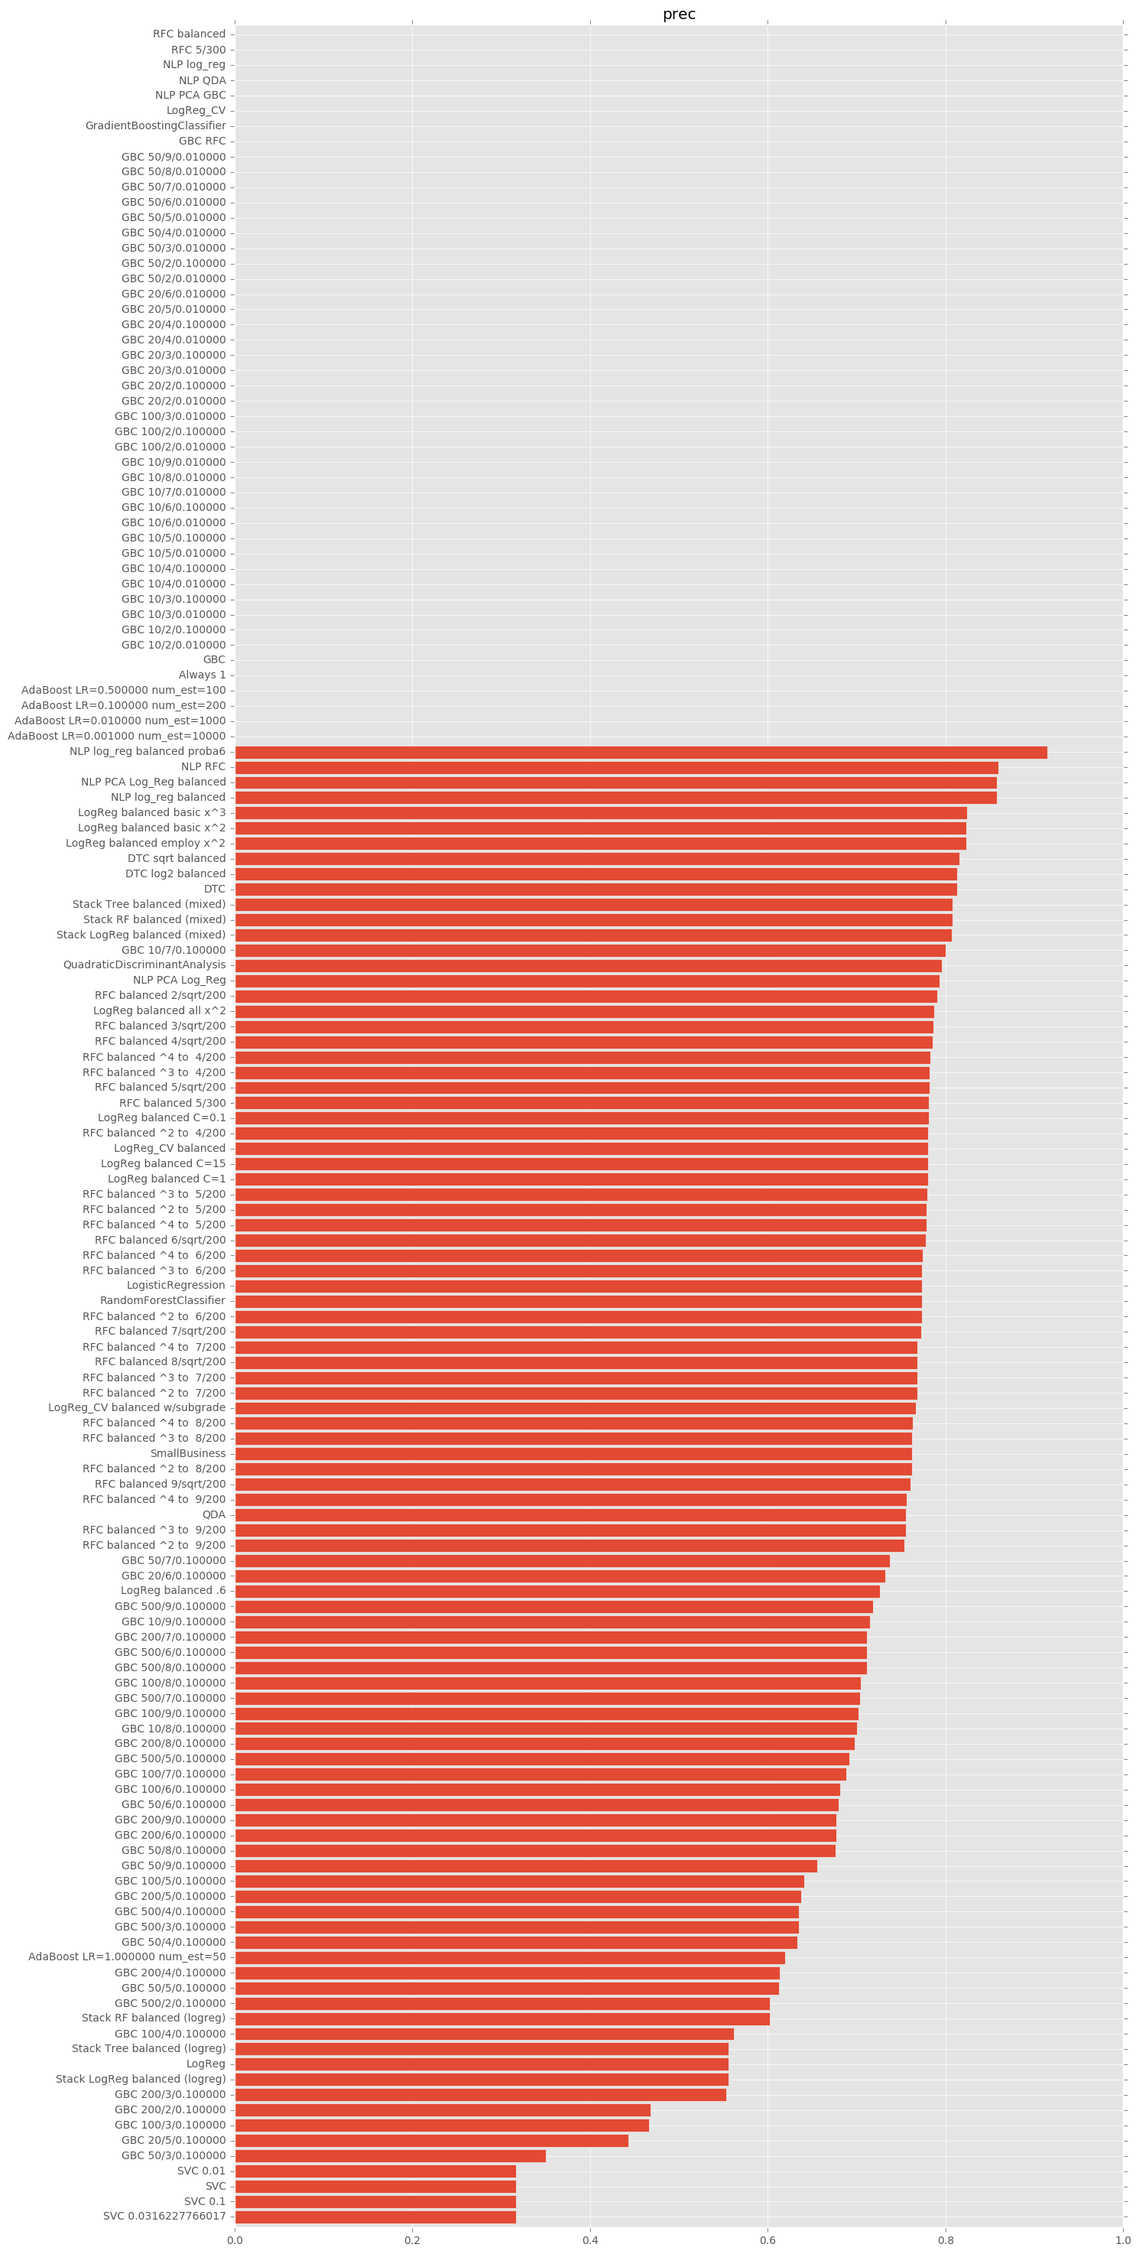
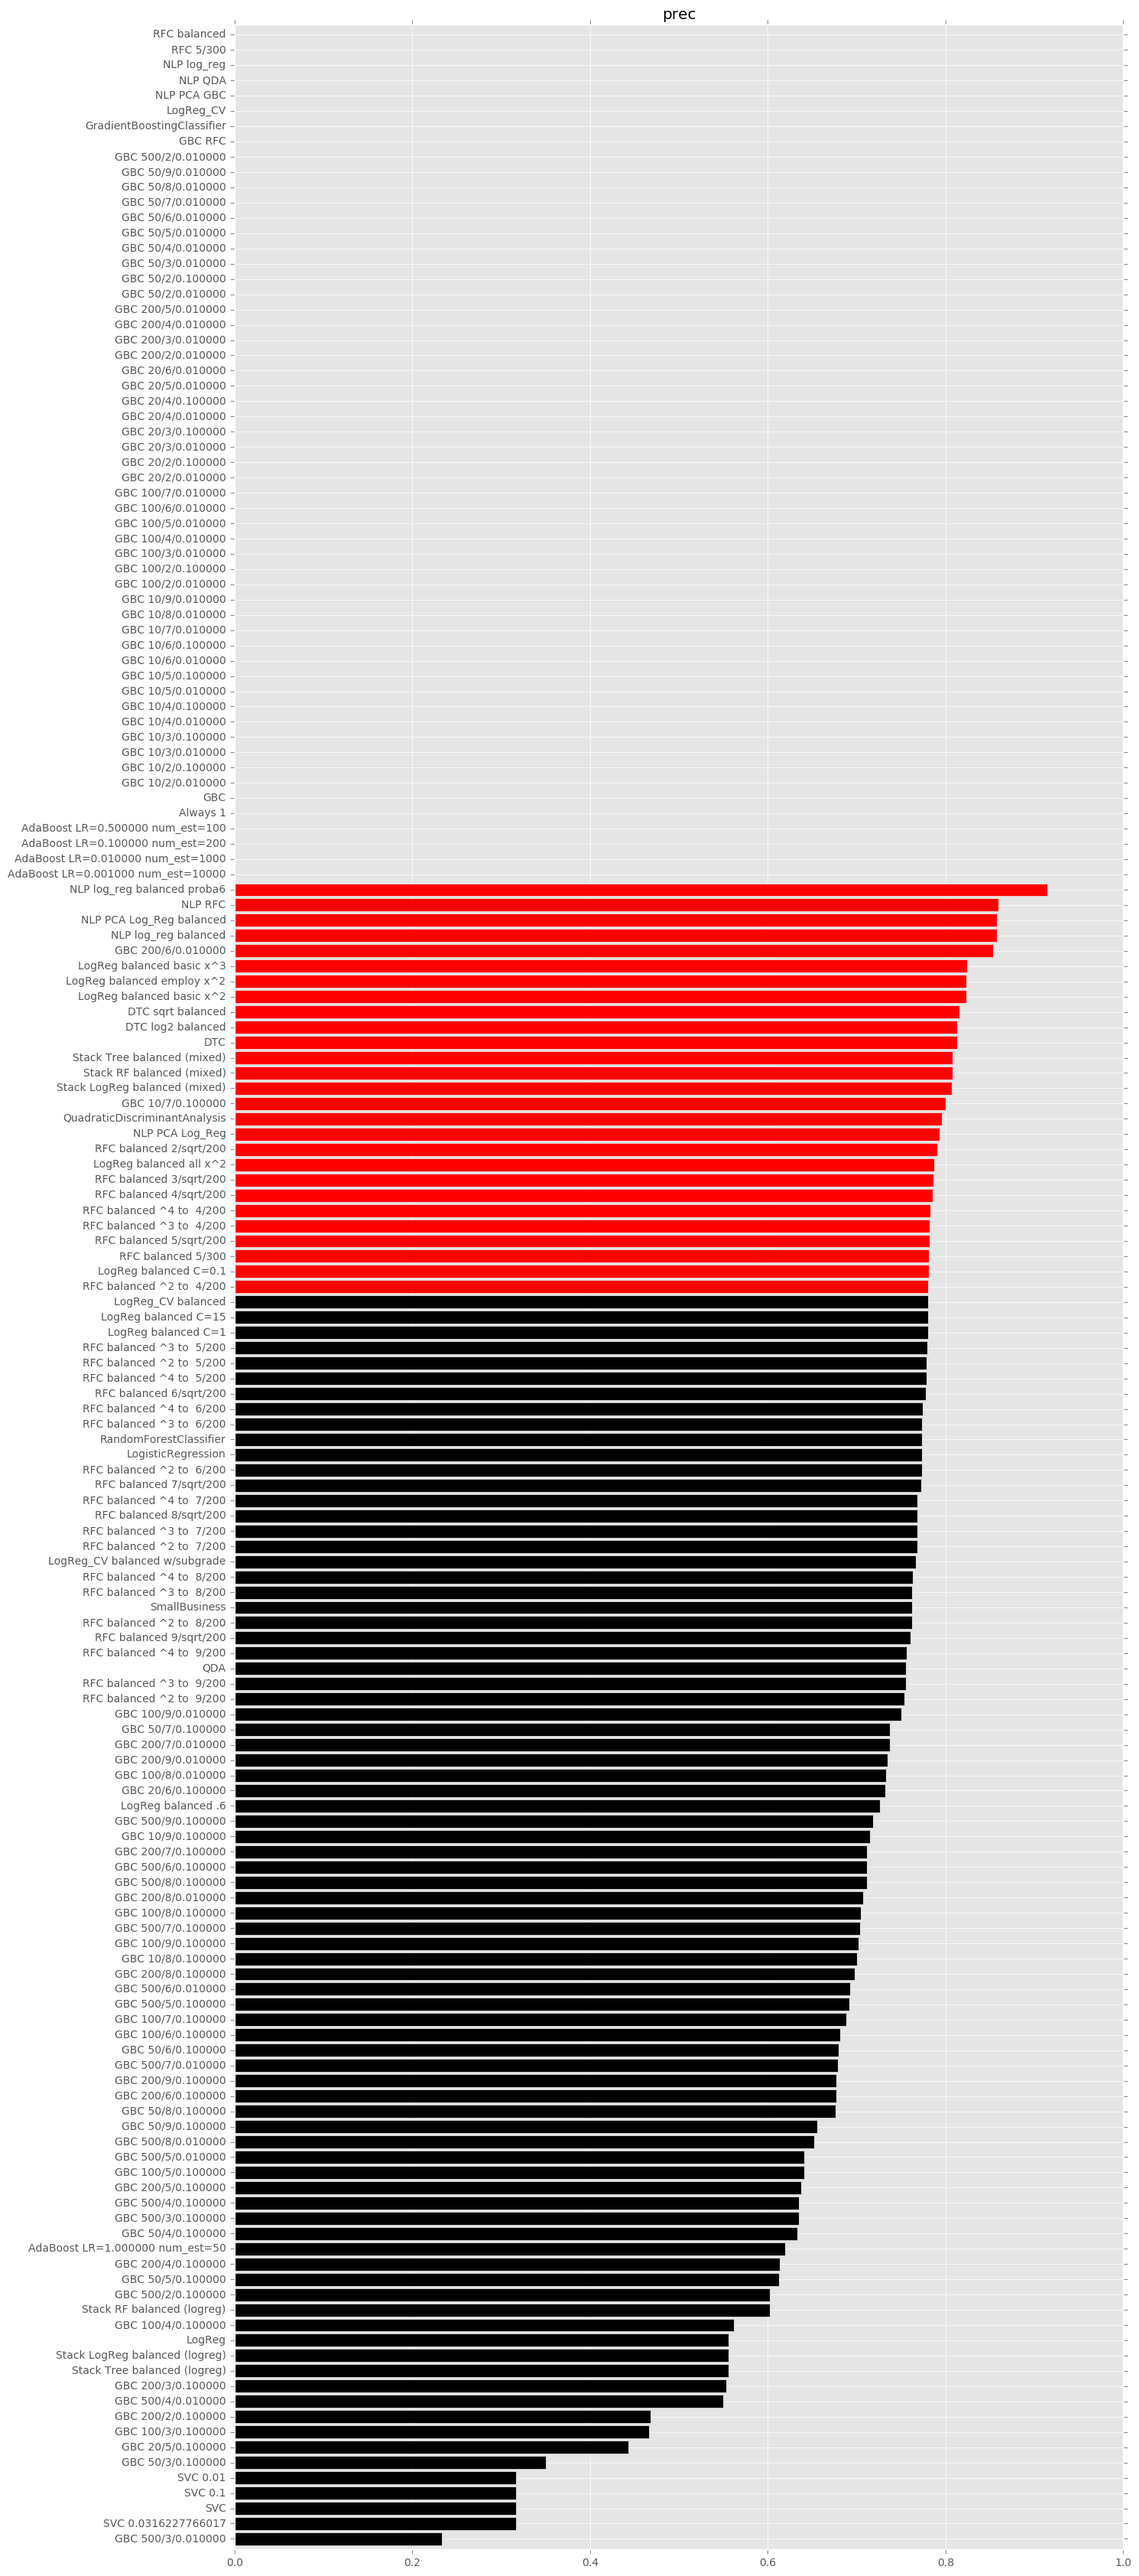
Yet more updates

diff --git a/docs/05-Analysis.html b/docs/05-Analysis.html
@@ -74,11 +74,17 @@
 <tr><th>GBC 100/2/0.100000</th><td class='better'>0.659</td><td>0.918</td><td>nan</td><td>0.848</td><td>0.000</td><td>0.471</td><td>0.848</td></tr>
 <tr><th>GBC 100/3/0.010000</th><td>0.638</td><td>0.918</td><td>nan</td><td>0.848</td><td>0.000</td><td>nan</td><td>0.848</td></tr>
 <tr><th>GBC 100/3/0.100000</th><td class='better'>0.662</td><td>0.918</td><td>0.467</td><td>0.848</td><td>0.002</td><td>0.588</td><td>0.848</td></tr>
+<tr><th>GBC 100/4/0.010000</th><td>0.641</td><td>0.918</td><td>nan</td><td>0.848</td><td>0.000</td><td>nan</td><td>0.848</td></tr>
 <tr><th>GBC 100/4/0.100000</th><td class='better'>0.661</td><td>0.917</td><td>0.562</td><td>0.847</td><td>0.004</td><td>0.550</td><td>0.848</td></tr>
+<tr><th>GBC 100/5/0.010000</th><td>0.645</td><td>0.918</td><td>nan</td><td>0.848</td><td>0.000</td><td>nan</td><td>0.848</td></tr>
 <tr><th>GBC 100/5/0.100000</th><td class='better'>0.659</td><td>0.916</td><td>0.641</td><td>0.846</td><td>0.009</td><td>0.618</td><td>0.847</td></tr>
+<tr><th>GBC 100/6/0.010000</th><td>0.645</td><td>0.918</td><td>nan</td><td>0.848</td><td>0.000</td><td>0.333</td><td>0.848</td></tr>
 <tr><th>GBC 100/6/0.100000</th><td>0.654</td><td>0.915</td><td>0.682</td><td>0.845</td><td>0.012</td><td>0.641</td><td>0.846</td></tr>
+<tr><th>GBC 100/7/0.010000</th><td>0.645</td><td>0.918</td><td>nan</td><td>0.848</td><td>0.000</td><td>0.571</td><td>0.848</td></tr>
 <tr><th>GBC 100/7/0.100000</th><td>0.650</td><td>0.915</td><td>0.688</td><td>0.843</td><td>0.016</td><td>0.661</td><td>0.845</td></tr>
+<tr><th>GBC 100/8/0.010000</th><td>0.642</td><td>0.918</td><td>0.733</td><td>0.848</td><td>0.000</td><td>0.609</td><td>0.848</td></tr>
 <tr><th>GBC 100/8/0.100000</th><td>0.645</td><td>0.915</td><td>0.704</td><td>0.843</td><td>0.020</td><td>0.698</td><td>0.843</td></tr>
+<tr><th>GBC 100/9/0.010000</th><td>0.639</td><td>0.918</td><td>0.750</td><td>0.848</td><td>0.001</td><td>0.550</td><td>0.848</td></tr>
 <tr><th>GBC 100/9/0.100000</th><td>0.641</td><td>0.913</td><td>0.703</td><td>0.841</td><td>0.023</td><td>0.692</td><td>0.843</td></tr>
 <tr><th>GBC 20/2/0.010000</th><td>0.596</td><td>0.918</td><td>nan</td><td>0.848</td><td>0.000</td><td>nan</td><td>0.848</td></tr>
 <tr><th>GBC 20/2/0.100000</th><td>0.642</td><td>0.918</td><td>nan</td><td>0.848</td><td>0.000</td><td>nan</td><td>0.848</td></tr>
@@ -90,13 +96,21 @@
 <tr><th>GBC 20/5/0.100000</th><td>0.650</td><td>0.918</td><td>0.443</td><td>0.848</td><td>0.000</td><td>0.471</td><td>0.848</td></tr>
 <tr><th>GBC 20/6/0.010000</th><td>0.623</td><td>0.918</td><td>nan</td><td>0.848</td><td>0.000</td><td>nan</td><td>0.848</td></tr>
 <tr><th>GBC 20/6/0.100000</th><td>0.651</td><td>0.917</td><td>0.733</td><td>0.847</td><td>0.001</td><td>0.544</td><td>0.848</td></tr>
+<tr><th>GBC 200/2/0.010000</th><td>0.642</td><td>0.918</td><td>nan</td><td>0.848</td><td>0.000</td><td>nan</td><td>0.848</td></tr>
 <tr><th>GBC 200/2/0.100000</th><td class='better'>0.663</td><td>0.918</td><td>0.468</td><td>0.848</td><td>0.001</td><td>0.562</td><td>0.848</td></tr>
+<tr><th>GBC 200/3/0.010000</th><td>0.648</td><td>0.918</td><td>nan</td><td>0.848</td><td>0.000</td><td>nan</td><td>0.848</td></tr>
 <tr><th>GBC 200/3/0.100000</th><td class='better'>0.663</td><td>0.917</td><td>0.554</td><td>0.847</td><td>0.004</td><td>0.592</td><td>0.848</td></tr>
+<tr><th>GBC 200/4/0.010000</th><td>0.651</td><td>0.918</td><td>nan</td><td>0.848</td><td>0.000</td><td>nan</td><td>0.848</td></tr>
 <tr><th>GBC 200/4/0.100000</th><td class='better'>0.660</td><td>0.916</td><td>0.613</td><td>0.846</td><td>0.009</td><td>0.624</td><td>0.847</td></tr>
+<tr><th>GBC 200/5/0.010000</th><td>0.652</td><td>0.918</td><td>nan</td><td>0.848</td><td>0.000</td><td>0.500</td><td>0.848</td></tr>
 <tr><th>GBC 200/5/0.100000</th><td>0.656</td><td>0.916</td><td>0.638</td><td>0.845</td><td>0.015</td><td>0.635</td><td>0.846</td></tr>
+<tr><th>GBC 200/6/0.010000</th><td>0.653</td><td>0.917</td><td>0.853</td><td>0.847</td><td>0.000</td><td>0.500</td><td>0.848</td></tr>
 <tr><th>GBC 200/6/0.100000</th><td>0.649</td><td>0.914</td><td>0.677</td><td>0.843</td><td>0.020</td><td>0.657</td><td>0.844</td></tr>
+<tr><th>GBC 200/7/0.010000</th><td>0.651</td><td>0.917</td><td>0.737</td><td>0.847</td><td>0.001</td><td>0.652</td><td>0.848</td></tr>
 <tr><th>GBC 200/7/0.100000</th><td>0.646</td><td>0.913</td><td>0.712</td><td>0.841</td><td>0.023</td><td>0.680</td><td>0.843</td></tr>
+<tr><th>GBC 200/8/0.010000</th><td>0.650</td><td>0.917</td><td>0.708</td><td>0.847</td><td>0.002</td><td>0.615</td><td>0.848</td></tr>
 <tr><th>GBC 200/8/0.100000</th><td>0.639</td><td>0.913</td><td>0.698</td><td>0.841</td><td>0.027</td><td>0.684</td><td>0.842</td></tr>
+<tr><th>GBC 200/9/0.010000</th><td>0.646</td><td>0.917</td><td>0.735</td><td>0.847</td><td>0.005</td><td>0.672</td><td>0.847</td></tr>
 <tr><th>GBC 200/9/0.100000</th><td>0.633</td><td>0.914</td><td>0.677</td><td>0.842</td><td>0.027</td><td>0.685</td><td>0.842</td></tr>
 <tr><th>GBC 50/2/0.010000</th><td>0.615</td><td>0.918</td><td>nan</td><td>0.848</td><td>0.000</td><td>nan</td><td>0.848</td></tr>
 <tr><th>GBC 50/2/0.100000</th><td>0.654</td><td>0.918</td><td>nan</td><td>0.848</td><td>0.000</td><td>nan</td><td>0.848</td></tr>
@@ -114,12 +128,19 @@
 <tr><th>GBC 50/8/0.100000</th><td>0.648</td><td>0.916</td><td>0.676</td><td>0.845</td><td>0.013</td><td>0.642</td><td>0.846</td></tr>
 <tr><th>GBC 50/9/0.010000</th><td>0.633</td><td>0.918</td><td>nan</td><td>0.848</td><td>0.000</td><td>nan</td><td>0.848</td></tr>
 <tr><th>GBC 50/9/0.100000</th><td>0.642</td><td>0.915</td><td>0.655</td><td>0.844</td><td>0.017</td><td>0.679</td><td>0.844</td></tr>
+<tr><th>GBC 500/2/0.010000</th><td>0.654</td><td>0.918</td><td>nan</td><td>0.848</td><td>0.000</td><td>nan</td><td>0.848</td></tr>
 <tr><th>GBC 500/2/0.100000</th><td class='better'>0.664</td><td>0.917</td><td>0.603</td><td>0.847</td><td>0.005</td><td>0.633</td><td>0.848</td></tr>
+<tr><th>GBC 500/3/0.010000</th><td class='better'>0.658</td><td>0.918</td><td>0.233</td><td>0.848</td><td>0.000</td><td>0.308</td><td>0.848</td></tr>
 <tr><th>GBC 500/3/0.100000</th><td class='better'>0.660</td><td>0.916</td><td>0.635</td><td>0.845</td><td>0.011</td><td>0.632</td><td>0.846</td></tr>
+<tr><th>GBC 500/4/0.010000</th><td class='better'>0.660</td><td>0.918</td><td>0.550</td><td>0.848</td><td>0.001</td><td>0.508</td><td>0.848</td></tr>
 <tr><th>GBC 500/4/0.100000</th><td>0.653</td><td>0.914</td><td>0.635</td><td>0.843</td><td>0.020</td><td>0.672</td><td>0.844</td></tr>
+<tr><th>GBC 500/5/0.010000</th><td class='better'>0.661</td><td>0.917</td><td>0.641</td><td>0.847</td><td>0.002</td><td>0.596</td><td>0.848</td></tr>
 <tr><th>GBC 500/5/0.100000</th><td>0.647</td><td>0.913</td><td>0.691</td><td>0.840</td><td>0.026</td><td>0.668</td><td>0.843</td></tr>
+<tr><th>GBC 500/6/0.010000</th><td class='better'>0.659</td><td>0.917</td><td>0.693</td><td>0.847</td><td>0.004</td><td>0.598</td><td>0.848</td></tr>
 <tr><th>GBC 500/6/0.100000</th><td>0.638</td><td>0.911</td><td>0.712</td><td>0.838</td><td>0.031</td><td>0.679</td><td>0.841</td></tr>
+<tr><th>GBC 500/7/0.010000</th><td>0.657</td><td>0.916</td><td>0.679</td><td>0.846</td><td>0.006</td><td>0.608</td><td>0.848</td></tr>
 <tr><th>GBC 500/7/0.100000</th><td>0.630</td><td>0.911</td><td>0.704</td><td>0.838</td><td>0.035</td><td>0.705</td><td>0.840</td></tr>
+<tr><th>GBC 500/8/0.010000</th><td>0.654</td><td>0.916</td><td>0.653</td><td>0.846</td><td>0.008</td><td>0.633</td><td>0.847</td></tr>
 <tr><th>GBC 500/8/0.100000</th><td>0.625</td><td>0.912</td><td>0.711</td><td>0.839</td><td>0.032</td><td>0.692</td><td>0.841</td></tr>
 <tr><th>GBC 500/9/0.100000</th><td>0.615</td><td>0.913</td><td>0.719</td><td>0.840</td><td>0.029</td><td>0.701</td><td>0.841</td></tr>
 <tr><th>GBC RFC</th><td>0.496</td><td>0.925</td><td>nan</td><td>0.860</td><td>0.000</td><td>nan</td><td class='better'>0.863</td></tr>

diff --git a/docs/model_performance.html b/docs/model_performance.html
@@ -28,11 +28,17 @@
 <tr><th>GBC 100/2/0.100000</th><td class='better'>0.659</td><td>0.918</td><td>nan</td><td>0.848</td><td>0.000</td><td>0.471</td><td>0.848</td></tr>
 <tr><th>GBC 100/3/0.010000</th><td>0.638</td><td>0.918</td><td>nan</td><td>0.848</td><td>0.000</td><td>nan</td><td>0.848</td></tr>
 <tr><th>GBC 100/3/0.100000</th><td class='better'>0.662</td><td>0.918</td><td>0.467</td><td>0.848</td><td>0.002</td><td>0.588</td><td>0.848</td></tr>
+<tr><th>GBC 100/4/0.010000</th><td>0.641</td><td>0.918</td><td>nan</td><td>0.848</td><td>0.000</td><td>nan</td><td>0.848</td></tr>
 <tr><th>GBC 100/4/0.100000</th><td class='better'>0.661</td><td>0.917</td><td>0.562</td><td>0.847</td><td>0.004</td><td>0.550</td><td>0.848</td></tr>
+<tr><th>GBC 100/5/0.010000</th><td>0.645</td><td>0.918</td><td>nan</td><td>0.848</td><td>0.000</td><td>nan</td><td>0.848</td></tr>
 <tr><th>GBC 100/5/0.100000</th><td class='better'>0.659</td><td>0.916</td><td>0.641</td><td>0.846</td><td>0.009</td><td>0.618</td><td>0.847</td></tr>
+<tr><th>GBC 100/6/0.010000</th><td>0.645</td><td>0.918</td><td>nan</td><td>0.848</td><td>0.000</td><td>0.333</td><td>0.848</td></tr>
 <tr><th>GBC 100/6/0.100000</th><td>0.654</td><td>0.915</td><td>0.682</td><td>0.845</td><td>0.012</td><td>0.641</td><td>0.846</td></tr>
+<tr><th>GBC 100/7/0.010000</th><td>0.645</td><td>0.918</td><td>nan</td><td>0.848</td><td>0.000</td><td>0.571</td><td>0.848</td></tr>
 <tr><th>GBC 100/7/0.100000</th><td>0.650</td><td>0.915</td><td>0.688</td><td>0.843</td><td>0.016</td><td>0.661</td><td>0.845</td></tr>
+<tr><th>GBC 100/8/0.010000</th><td>0.642</td><td>0.918</td><td>0.733</td><td>0.848</td><td>0.000</td><td>0.609</td><td>0.848</td></tr>
 <tr><th>GBC 100/8/0.100000</th><td>0.645</td><td>0.915</td><td>0.704</td><td>0.843</td><td>0.020</td><td>0.698</td><td>0.843</td></tr>
+<tr><th>GBC 100/9/0.010000</th><td>0.639</td><td>0.918</td><td>0.750</td><td>0.848</td><td>0.001</td><td>0.550</td><td>0.848</td></tr>
 <tr><th>GBC 100/9/0.100000</th><td>0.641</td><td>0.913</td><td>0.703</td><td>0.841</td><td>0.023</td><td>0.692</td><td>0.843</td></tr>
 <tr><th>GBC 20/2/0.010000</th><td>0.596</td><td>0.918</td><td>nan</td><td>0.848</td><td>0.000</td><td>nan</td><td>0.848</td></tr>
 <tr><th>GBC 20/2/0.100000</th><td>0.642</td><td>0.918</td><td>nan</td><td>0.848</td><td>0.000</td><td>nan</td><td>0.848</td></tr>
@@ -44,13 +50,21 @@
 <tr><th>GBC 20/5/0.100000</th><td>0.650</td><td>0.918</td><td>0.443</td><td>0.848</td><td>0.000</td><td>0.471</td><td>0.848</td></tr>
 <tr><th>GBC 20/6/0.010000</th><td>0.623</td><td>0.918</td><td>nan</td><td>0.848</td><td>0.000</td><td>nan</td><td>0.848</td></tr>
 <tr><th>GBC 20/6/0.100000</th><td>0.651</td><td>0.917</td><td>0.733</td><td>0.847</td><td>0.001</td><td>0.544</td><td>0.848</td></tr>
+<tr><th>GBC 200/2/0.010000</th><td>0.642</td><td>0.918</td><td>nan</td><td>0.848</td><td>0.000</td><td>nan</td><td>0.848</td></tr>
 <tr><th>GBC 200/2/0.100000</th><td class='better'>0.663</td><td>0.918</td><td>0.468</td><td>0.848</td><td>0.001</td><td>0.562</td><td>0.848</td></tr>
+<tr><th>GBC 200/3/0.010000</th><td>0.648</td><td>0.918</td><td>nan</td><td>0.848</td><td>0.000</td><td>nan</td><td>0.848</td></tr>
 <tr><th>GBC 200/3/0.100000</th><td class='better'>0.663</td><td>0.917</td><td>0.554</td><td>0.847</td><td>0.004</td><td>0.592</td><td>0.848</td></tr>
+<tr><th>GBC 200/4/0.010000</th><td>0.651</td><td>0.918</td><td>nan</td><td>0.848</td><td>0.000</td><td>nan</td><td>0.848</td></tr>
 <tr><th>GBC 200/4/0.100000</th><td class='better'>0.660</td><td>0.916</td><td>0.613</td><td>0.846</td><td>0.009</td><td>0.624</td><td>0.847</td></tr>
+<tr><th>GBC 200/5/0.010000</th><td>0.652</td><td>0.918</td><td>nan</td><td>0.848</td><td>0.000</td><td>0.500</td><td>0.848</td></tr>
 <tr><th>GBC 200/5/0.100000</th><td>0.656</td><td>0.916</td><td>0.638</td><td>0.845</td><td>0.015</td><td>0.635</td><td>0.846</td></tr>
+<tr><th>GBC 200/6/0.010000</th><td>0.653</td><td>0.917</td><td>0.853</td><td>0.847</td><td>0.000</td><td>0.500</td><td>0.848</td></tr>
 <tr><th>GBC 200/6/0.100000</th><td>0.649</td><td>0.914</td><td>0.677</td><td>0.843</td><td>0.020</td><td>0.657</td><td>0.844</td></tr>
+<tr><th>GBC 200/7/0.010000</th><td>0.651</td><td>0.917</td><td>0.737</td><td>0.847</td><td>0.001</td><td>0.652</td><td>0.848</td></tr>
 <tr><th>GBC 200/7/0.100000</th><td>0.646</td><td>0.913</td><td>0.712</td><td>0.841</td><td>0.023</td><td>0.680</td><td>0.843</td></tr>
+<tr><th>GBC 200/8/0.010000</th><td>0.650</td><td>0.917</td><td>0.708</td><td>0.847</td><td>0.002</td><td>0.615</td><td>0.848</td></tr>
 <tr><th>GBC 200/8/0.100000</th><td>0.639</td><td>0.913</td><td>0.698</td><td>0.841</td><td>0.027</td><td>0.684</td><td>0.842</td></tr>
+<tr><th>GBC 200/9/0.010000</th><td>0.646</td><td>0.917</td><td>0.735</td><td>0.847</td><td>0.005</td><td>0.672</td><td>0.847</td></tr>
 <tr><th>GBC 200/9/0.100000</th><td>0.633</td><td>0.914</td><td>0.677</td><td>0.842</td><td>0.027</td><td>0.685</td><td>0.842</td></tr>
 <tr><th>GBC 50/2/0.010000</th><td>0.615</td><td>0.918</td><td>nan</td><td>0.848</td><td>0.000</td><td>nan</td><td>0.848</td></tr>
 <tr><th>GBC 50/2/0.100000</th><td>0.654</td><td>0.918</td><td>nan</td><td>0.848</td><td>0.000</td><td>nan</td><td>0.848</td></tr>
@@ -68,12 +82,19 @@
 <tr><th>GBC 50/8/0.100000</th><td>0.648</td><td>0.916</td><td>0.676</td><td>0.845</td><td>0.013</td><td>0.642</td><td>0.846</td></tr>
 <tr><th>GBC 50/9/0.010000</th><td>0.633</td><td>0.918</td><td>nan</td><td>0.848</td><td>0.000</td><td>nan</td><td>0.848</td></tr>
 <tr><th>GBC 50/9/0.100000</th><td>0.642</td><td>0.915</td><td>0.655</td><td>0.844</td><td>0.017</td><td>0.679</td><td>0.844</td></tr>
+<tr><th>GBC 500/2/0.010000</th><td>0.654</td><td>0.918</td><td>nan</td><td>0.848</td><td>0.000</td><td>nan</td><td>0.848</td></tr>
 <tr><th>GBC 500/2/0.100000</th><td class='better'>0.664</td><td>0.917</td><td>0.603</td><td>0.847</td><td>0.005</td><td>0.633</td><td>0.848</td></tr>
+<tr><th>GBC 500/3/0.010000</th><td class='better'>0.658</td><td>0.918</td><td>0.233</td><td>0.848</td><td>0.000</td><td>0.308</td><td>0.848</td></tr>
 <tr><th>GBC 500/3/0.100000</th><td class='better'>0.660</td><td>0.916</td><td>0.635</td><td>0.845</td><td>0.011</td><td>0.632</td><td>0.846</td></tr>
+<tr><th>GBC 500/4/0.010000</th><td class='better'>0.660</td><td>0.918</td><td>0.550</td><td>0.848</td><td>0.001</td><td>0.508</td><td>0.848</td></tr>
 <tr><th>GBC 500/4/0.100000</th><td>0.653</td><td>0.914</td><td>0.635</td><td>0.843</td><td>0.020</td><td>0.672</td><td>0.844</td></tr>
+<tr><th>GBC 500/5/0.010000</th><td class='better'>0.661</td><td>0.917</td><td>0.641</td><td>0.847</td><td>0.002</td><td>0.596</td><td>0.848</td></tr>
 <tr><th>GBC 500/5/0.100000</th><td>0.647</td><td>0.913</td><td>0.691</td><td>0.840</td><td>0.026</td><td>0.668</td><td>0.843</td></tr>
+<tr><th>GBC 500/6/0.010000</th><td class='better'>0.659</td><td>0.917</td><td>0.693</td><td>0.847</td><td>0.004</td><td>0.598</td><td>0.848</td></tr>
 <tr><th>GBC 500/6/0.100000</th><td>0.638</td><td>0.911</td><td>0.712</td><td>0.838</td><td>0.031</td><td>0.679</td><td>0.841</td></tr>
+<tr><th>GBC 500/7/0.010000</th><td>0.657</td><td>0.916</td><td>0.679</td><td>0.846</td><td>0.006</td><td>0.608</td><td>0.848</td></tr>
 <tr><th>GBC 500/7/0.100000</th><td>0.630</td><td>0.911</td><td>0.704</td><td>0.838</td><td>0.035</td><td>0.705</td><td>0.840</td></tr>
+<tr><th>GBC 500/8/0.010000</th><td>0.654</td><td>0.916</td><td>0.653</td><td>0.846</td><td>0.008</td><td>0.633</td><td>0.847</td></tr>
 <tr><th>GBC 500/8/0.100000</th><td>0.625</td><td>0.912</td><td>0.711</td><td>0.839</td><td>0.032</td><td>0.692</td><td>0.841</td></tr>
 <tr><th>GBC 500/9/0.100000</th><td>0.615</td><td>0.913</td><td>0.719</td><td>0.840</td><td>0.029</td><td>0.701</td><td>0.841</td></tr>
 <tr><th>GBC RFC</th><td>0.496</td><td>0.925</td><td>nan</td><td>0.860</td><td>0.000</td><td>nan</td><td class='better'>0.863</td></tr>
